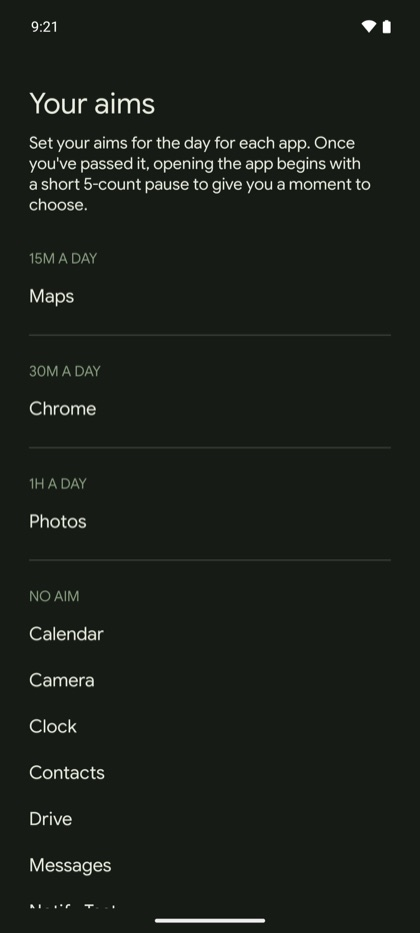
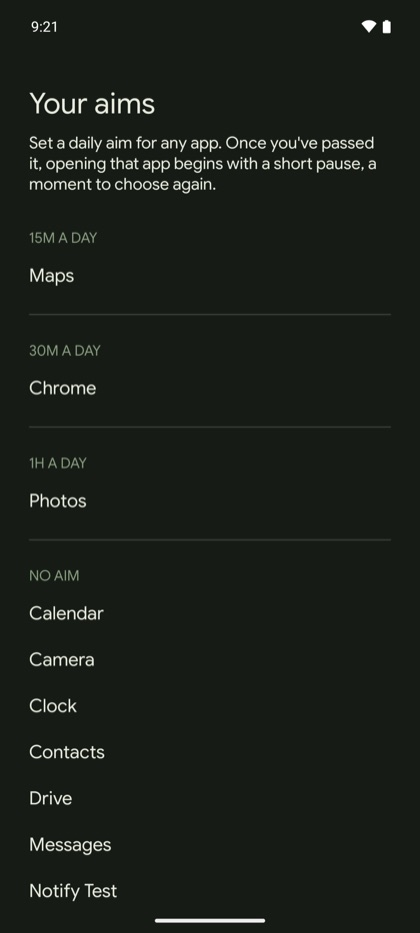
0.2.0 build 1: wording note and new after screens

Changed region(s): [[0.0619, 0.373, 0.2786, 0.9636], [0.0619, 0.1243, 0.8976, 0.3419]]

diff --git a/docs/releases.html b/docs/releases.html
@@ -54,6 +54,7 @@
           <li><b>Your look's wallpaper comes back</b> when you return to Evenglade after a break.</li>
           <li><b>What the words mean,</b> a short page in Settings, under Feedback and help.</li>
           <li>The screen time lines in Settings say when they're waiting for usage access.</li>
+          <li><b>Clearer wording throughout,</b> from the walkthrough to Settings and the screens for your key.</li>
         </ul>
       </div>
 
@@ -137,7 +138,7 @@
               <figcaption class="mono soft">0.1.19</figcaption>
             </figure>
             <figure>
-              <div class="phone"><img class="when-light" src="img/releases/0.2.0/light-after-home-step.jpg" width="420" height="933" loading="lazy" alt="After: the Your home screen step, 4 of 7, saying to choose up to five, with a link to its video."><img class="when-dark" src="img/releases/0.2.0/dark-after-home-step.jpg" width="420" height="933" loading="lazy" alt="After: the Your home screen step, 4 of 7, saying to choose up to five, with a link to its video."></div>
+              <div class="phone"><img class="when-light" src="img/releases/0.2.0/light-after-home-step.jpg" width="420" height="933" loading="lazy" alt="After: the Your home screen step, 4 of 7, suggesting 5 apps to start with, with a link to its video."><img class="when-dark" src="img/releases/0.2.0/dark-after-home-step.jpg" width="420" height="933" loading="lazy" alt="After: the Your home screen step, 4 of 7, suggesting 5 apps to start with, with a link to its video."></div>
               <figcaption class="mono soft">0.2.0</figcaption>
             </figure>
           </div>
